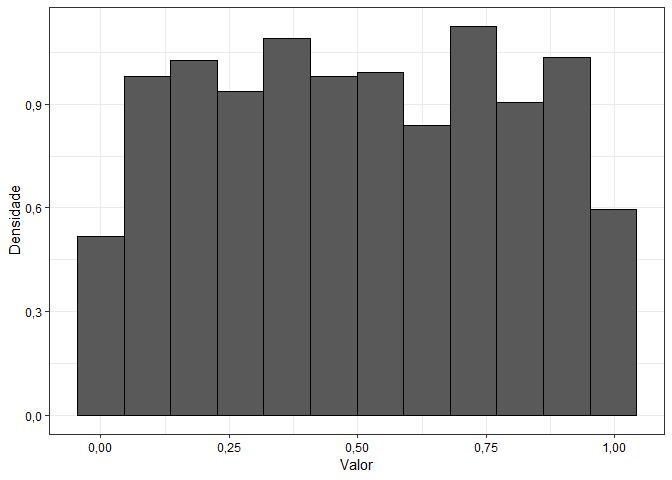
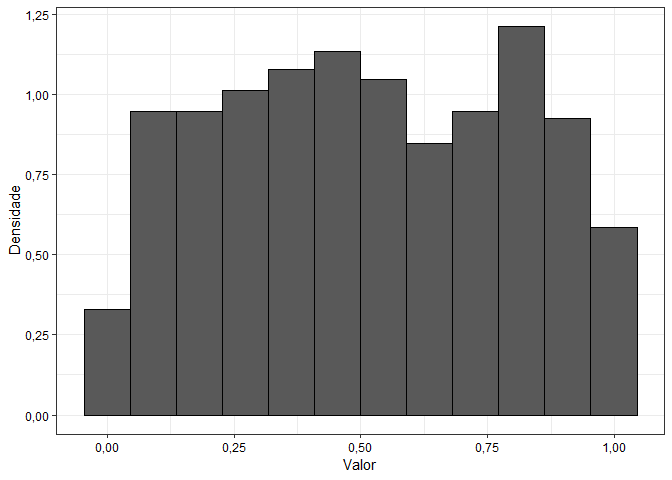
18/04/2019

diff --git a/Tarefa0/Script_Tarefa0.html b/Tarefa0/Script_Tarefa0.html
@@ -483,7 +483,7 @@ seq(-5, 5, 0.1) %&gt;%
   labs(x = &quot;Valor&quot;, y = &quot;Densidade&quot;) +
   scale_y_continuous(label = formato_real_graf) +
   scale_x_continuous(label = formato_real_graf)</code></pre>
[2 lines of base64/hex data omitted]
 </div>
 <div id="questao-2.2" class="section level3">
 <h3>Questão 2.2</h3>
@@ -512,10 +512,10 @@ Variância
 <tbody>
 <tr>
 <td style="text-align:center;color: black !important;background-color: white !important;">
-0,295
+0,321
 </td>
 <td style="text-align:center;color: black !important;background-color: white !important;">
-0,208
+0,218
 </td>
 </tr>
 </tbody>
@@ -548,10 +548,10 @@ Variância
 <tbody>
 <tr>
 <td style="text-align:center;color: black !important;background-color: white !important;">
-0,600
+0,800
 </td>
 <td style="text-align:center;color: black !important;background-color: white !important;">
-0,267
+0,178
 </td>
 </tr>
 </tbody>
@@ -584,10 +584,10 @@ Variância
 <tbody>
 <tr>
 <td style="text-align:center;color: black !important;background-color: white !important;">
-0,000
+-0,053
 </td>
 <td style="text-align:center;color: black !important;background-color: white !important;">
-0,965
+0,989
 </td>
 </tr>
 </tbody>
@@ -632,68 +632,68 @@ Probabilidade (em %)
 <tbody>
 <tr>
 <td style="text-align:center;color: black !important;background-color: white !important;">
--0.6905199
+0.1606136
 </td>
 <td style="text-align:center;color: black !important;background-color: white !important;">
-0.0132447
+0.1052284
 </td>
 <td style="text-align:center;color: black !important;background-color: white !important;">
-1,32%
-</td>
-</tr>
-<tr>
-<td style="text-align:center;color: black !important;background-color: white !important;">
--1.4156967
-</td>
-<td style="text-align:center;color: black !important;background-color: white !important;">
-0.0021077
-</td>
-<td style="text-align:center;color: black !important;background-color: white !important;">
-0,21%
+10,52%
 </td>
 </tr>
 <tr>
 <td style="text-align:center;color: black !important;background-color: white !important;">
-0.8830468
+-0.2712483
 </td>
 <td style="text-align:center;color: black !important;background-color: white !important;">
-0.4259901
+0.0376269
 </td>
 <td style="text-align:center;color: black !important;background-color: white !important;">
-42,60%
-</td>
-</tr>
-<tr>
-<td style="text-align:center;color: black !important;background-color: white !important;">
-0.1275825
-</td>
-<td style="text-align:center;color: black !important;background-color: white !important;">
-0.0975574
-</td>
-<td style="text-align:center;color: black !important;background-color: white !important;">
-9,76%
+3,76%
 </td>
 </tr>
 <tr>
 <td style="text-align:center;color: black !important;background-color: white !important;">
--0.2895627
+1.6340013
 </td>
 <td style="text-align:center;color: black !important;background-color: white !important;">
-0.0359718
+0.8343400
 </td>
 <td style="text-align:center;color: black !important;background-color: white !important;">
-3,60%
+83,43%
 </td>
 </tr>
 <tr>
 <td style="text-align:center;color: black !important;background-color: white !important;">
-1.0694152
+-0.9435532
 </td>
 <td style="text-align:center;color: black !important;background-color: white !important;">
-0.5441370
+0.0069914
 </td>
 <td style="text-align:center;color: black !important;background-color: white !important;">
-54,41%
+0,70%
+</td>
+</tr>
+<tr>
+<td style="text-align:center;color: black !important;background-color: white !important;">
+1.2895835
+</td>
+<td style="text-align:center;color: black !important;background-color: white !important;">
+0.6766542
+</td>
+<td style="text-align:center;color: black !important;background-color: white !important;">
+67,67%
+</td>
+</tr>
+<tr>
+<td style="text-align:center;color: black !important;background-color: white !important;">
+-0.6689036
+</td>
+<td style="text-align:center;color: black !important;background-color: white !important;">
+0.0139848
+</td>
+<td style="text-align:center;color: black !important;background-color: white !important;">
+1,40%
 </td>
 </tr>
 </tbody>

diff --git a/Tarefa0/Script_Tarefa0.md b/Tarefa0/Script_Tarefa0.md
@@ -1,7 +1,7 @@
 ---
-output: 
-  html_document:
-    keep_md: true
+output:
+   html_document:
+     keep_md: TRUE
 ---
 
 
@@ -467,8 +467,8 @@ rbinom(n = 1000, size = 1, prob = 0.3) %>%
  </thead>
 <tbody>
   <tr>
-   <td style="text-align:center;color: black !important;background-color: white !important;"> 0,295 </td>
-   <td style="text-align:center;color: black !important;background-color: white !important;"> 0,208 </td>
+   <td style="text-align:center;color: black !important;background-color: white !important;"> 0,321 </td>
+   <td style="text-align:center;color: black !important;background-color: white !important;"> 0,218 </td>
   </tr>
 </tbody>
 </table>
@@ -500,8 +500,8 @@ rbinom(n = 10, size = 1, prob = 0.5) %>%
  </thead>
 <tbody>
   <tr>
-   <td style="text-align:center;color: black !important;background-color: white !important;"> 0,600 </td>
-   <td style="text-align:center;color: black !important;background-color: white !important;"> 0,267 </td>
+   <td style="text-align:center;color: black !important;background-color: white !important;"> 0,800 </td>
+   <td style="text-align:center;color: black !important;background-color: white !important;"> 0,178 </td>
   </tr>
 </tbody>
 </table>
@@ -533,8 +533,8 @@ rnorm(n = 1000) %>%
  </thead>
 <tbody>
   <tr>
-   <td style="text-align:center;color: black !important;background-color: white !important;"> 0,000 </td>
-   <td style="text-align:center;color: black !important;background-color: white !important;"> 0,965 </td>
+   <td style="text-align:center;color: black !important;background-color: white !important;"> -0,053 </td>
+   <td style="text-align:center;color: black !important;background-color: white !important;"> 0,989 </td>
   </tr>
 </tbody>
 </table>
@@ -580,34 +580,34 @@ rnorm(n = 1000, mean = 0, sd = 1) %>%
  </thead>
 <tbody>
   <tr>
-   <td style="text-align:center;color: black !important;background-color: white !important;"> -0.6905199 </td>
-   <td style="text-align:center;color: black !important;background-color: white !important;"> 0.0132447 </td>
-   <td style="text-align:center;color: black !important;background-color: white !important;"> 1,32% </td>
+   <td style="text-align:center;color: black !important;background-color: white !important;"> 0.1606136 </td>
+   <td style="text-align:center;color: black !important;background-color: white !important;"> 0.1052284 </td>
+   <td style="text-align:center;color: black !important;background-color: white !important;"> 10,52% </td>
   </tr>
   <tr>
-   <td style="text-align:center;color: black !important;background-color: white !important;"> -1.4156967 </td>
-   <td style="text-align:center;color: black !important;background-color: white !important;"> 0.0021077 </td>
-   <td style="text-align:center;color: black !important;background-color: white !important;"> 0,21% </td>
+   <td style="text-align:center;color: black !important;background-color: white !important;"> -0.2712483 </td>
+   <td style="text-align:center;color: black !important;background-color: white !important;"> 0.0376269 </td>
+   <td style="text-align:center;color: black !important;background-color: white !important;"> 3,76% </td>
   </tr>
   <tr>
-   <td style="text-align:center;color: black !important;background-color: white !important;"> 0.8830468 </td>
-   <td style="text-align:center;color: black !important;background-color: white !important;"> 0.4259901 </td>
-   <td style="text-align:center;color: black !important;background-color: white !important;"> 42,60% </td>
+   <td style="text-align:center;color: black !important;background-color: white !important;"> 1.6340013 </td>
+   <td style="text-align:center;color: black !important;background-color: white !important;"> 0.8343400 </td>
+   <td style="text-align:center;color: black !important;background-color: white !important;"> 83,43% </td>
   </tr>
   <tr>
-   <td style="text-align:center;color: black !important;background-color: white !important;"> 0.1275825 </td>
-   <td style="text-align:center;color: black !important;background-color: white !important;"> 0.0975574 </td>
-   <td style="text-align:center;color: black !important;background-color: white !important;"> 9,76% </td>
+   <td style="text-align:center;color: black !important;background-color: white !important;"> -0.9435532 </td>
+   <td style="text-align:center;color: black !important;background-color: white !important;"> 0.0069914 </td>
+   <td style="text-align:center;color: black !important;background-color: white !important;"> 0,70% </td>
   </tr>
   <tr>
-   <td style="text-align:center;color: black !important;background-color: white !important;"> -0.2895627 </td>
-   <td style="text-align:center;color: black !important;background-color: white !important;"> 0.0359718 </td>
-   <td style="text-align:center;color: black !important;background-color: white !important;"> 3,60% </td>
+   <td style="text-align:center;color: black !important;background-color: white !important;"> 1.2895835 </td>
+   <td style="text-align:center;color: black !important;background-color: white !important;"> 0.6766542 </td>
+   <td style="text-align:center;color: black !important;background-color: white !important;"> 67,67% </td>
   </tr>
   <tr>
-   <td style="text-align:center;color: black !important;background-color: white !important;"> 1.0694152 </td>
-   <td style="text-align:center;color: black !important;background-color: white !important;"> 0.5441370 </td>
-   <td style="text-align:center;color: black !important;background-color: white !important;"> 54,41% </td>
+   <td style="text-align:center;color: black !important;background-color: white !important;"> -0.6689036 </td>
+   <td style="text-align:center;color: black !important;background-color: white !important;"> 0.0139848 </td>
+   <td style="text-align:center;color: black !important;background-color: white !important;"> 1,40% </td>
   </tr>
 </tbody>
 </table>
